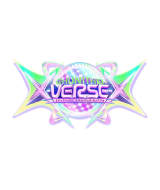
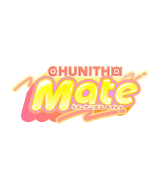
すみっコAI&チュウニズムメイト

Changed region(s): [[0.0625, 0.3158, 0.9375, 0.6842]]

diff --git a/app/pages/index.vue b/app/pages/index.vue
@@ -95,7 +95,7 @@
       <Skill src="vue" title="Vue.js" lv="5" />
       <Skill src="nuxt" title="Nuxt.js" lv="5" />
       <Skill src="python" title="Python" lv="4" />
-      <Skill src="chunithm" title="チュウニズム X-VERSE-X" lv="4" />
+      <Skill src="chunithm" title="チュウニズム Mate" lv="4" />
       <Skill src="ongeki" title="オンゲキ Re:Fresh" lv="3" />
       <Skill src="illustrator" title="Adobe Illustrator" lv="3" />
       <Skill src="indesign" title="Adobe InDesign" lv="3" />

diff --git a/components/Sidebar.vue b/components/Sidebar.vue
@@ -80,6 +80,12 @@
           title="Dualverse"
           description="究極のSNS廃人向けウェブブラウザ、誕生。"
         />
+        <Card
+          href="https://arkw.net/products/win/sumikko_ai/"
+          src="products/sumikko"
+          title="すみっコAI"
+          description="画面の隅に生成AIチャットボットを常駐できるソフトウェア"
+        />
       </div>
       <br />
       <h2>
